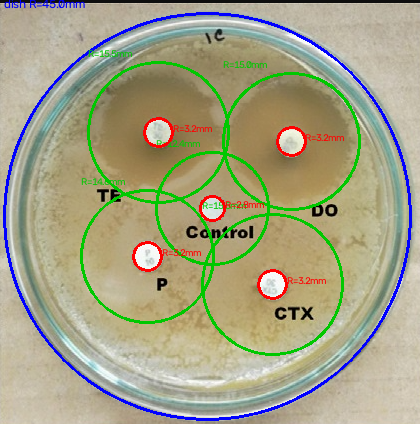
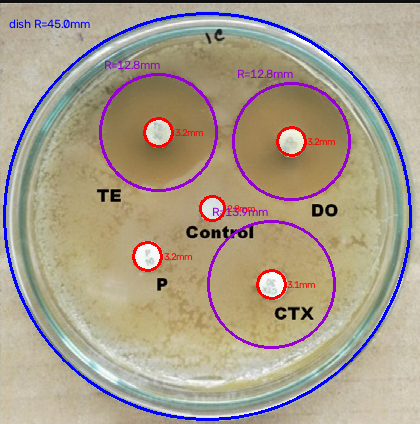
s4 image comflict

diff --git a/vision/petri_detect.py b/vision/petri_detect.py
@@ -1,7 +1,11 @@
 """Detect a petri dish, antibiotic disks, and their zones of inhibition in a single image.
 
 Usage: python3 petri_detect.py [path/to/image.png]
-Defaults to sample/image.png. Writes <name>_detected.png next to the input.
+Defaults to sample/s1.png. Writes <name>_detected.png next to the input.
+
+Colors: dish = blue, antibiotic disk = red, zone of inhibition = purple.
+A disk with no measurable zone (resistant organism, or a blank control disk)
+gets no purple circle at all -- that is a real result, not a failure.
 """
 import sys
 import os
@@ -11,6 +15,27 @@ import numpy as np
 
 DISH_DIAMETER_MM = 90.0
 
+# Physical priors for a Kirby-Bauer plate. Anchoring to mm (via the known 90mm
+# dish) instead of pixel fractions is what keeps false positives down.
+DISK_MIN_R_MM = 1.6          # standard disk is 6mm dia; allow for perspective
+DISK_MAX_R_MM = 4.5
+DISK_MIN_BRIGHTNESS = 150    # disks are white paper
+DISK_MAX_STDDEV = 45         # ...and flat/uniform, unlike textured agar
+DISK_MIN_LOCAL_CONTRAST = 12 # ...and clearly brighter than the agar around them
+
+ZONE_MAX_R_MM = 20.0         # a 40mm-dia zone is about the largest ever reported
+ZONE_MIN_R_MM = 4.0          # smaller than this is indistinguishable from the disk
+ZONE_SEARCH_FROM_DISK = 2.0  # start searching this many disk-radii out, past its halo
+# The two knobs that trade false positives against missed zones. Loosening
+# them much further starts re-admitting blank control disks, which score up to
+# ~0.56 agreement on these plates; tighten them if you see spurious circles.
+ZONE_MIN_SLOPE = 0.5         # gray levels per px: a boundary must be a real step
+ZONE_MIN_AGREEMENT = 0.60    # fraction of angular sectors that must see that step
+ZONE_SECTORS = 16
+MIN_RING_COVERAGE = 0.30     # fraction of a ring that must lie inside the dish
+
+BLUE, RED, PURPLE = (255, 0, 0), (0, 0, 255), (211, 0, 148)
+
 
 def load_image(path):
     img = cv2.imread(path)
@@ -19,144 +44,223 @@ def load_image(path):
     return img
 
 
-def _hough(gray, w, min_frac, max_frac, param1, param2, dp=1.0):
+def detect_dish(gray, w):
+    blurred = cv2.GaussianBlur(gray, (9, 9), 2)
     circles = cv2.HoughCircles(
-        gray, cv2.HOUGH_GRADIENT, dp=dp, minDist=w * 0.05,
-        param1=param1, param2=param2,
-        minRadius=int(w * min_frac), maxRadius=int(w * max_frac),
+        blurred, cv2.HOUGH_GRADIENT, dp=1.0, minDist=w * 0.05,
+        param1=80, param2=40,
+        minRadius=int(w * 0.35), maxRadius=int(w * 0.50),
+    )
+    if circles is None:
+        return None
+    return max((tuple(c) for c in circles[0]), key=lambda c: c[2])  # rim = biggest
+
+
+def _ring_stats(gray, mask, x, y, r_inner, r_outer):
+    """mean, stddev and pixel count of the annulus [r_inner, r_outer)."""
+    ring = np.zeros(gray.shape, dtype=np.uint8)
+    cv2.circle(ring, (int(x), int(y)), int(r_outer), 255, -1)
+    cv2.circle(ring, (int(x), int(y)), int(r_inner), 0, -1)
+    sel = (ring == 255) & mask
+    vals = gray[sel]
+    if vals.size == 0:
+        return 0.0, 0.0, 0
+    return float(vals.mean()), float(vals.std()), int(vals.size)
+
+
+def detect_disks(gray, dish, mm_per_px):
+    """Small, bright, uniform circles that are clearly brighter than the agar
+    surrounding them -- the local-contrast test is what rejects gloves, labels
+    and dish-rim glare, which are bright but sit on bright backgrounds."""
+    dx, dy, dr = dish
+    inside = np.zeros(gray.shape, dtype=np.uint8)
+    cv2.circle(inside, (int(dx), int(dy)), int(dr), 255, -1)
+    inside = inside == 255
+
+    blurred = cv2.GaussianBlur(gray, (5, 5), 1)
+    circles = cv2.HoughCircles(
+        blurred, cv2.HOUGH_GRADIENT, dp=1.0, minDist=DISK_MIN_R_MM / mm_per_px * 2,
+        param1=60, param2=25,
+        minRadius=int(DISK_MIN_R_MM / mm_per_px),
+        maxRadius=int(DISK_MAX_R_MM / mm_per_px),
     )
     if circles is None:
         return []
-    return [tuple(c) for c in circles[0]]
 
-
-def detect_dish(gray, w):
-    blurred = cv2.GaussianBlur(gray, (9, 9), 2)
-    candidates = _hough(blurred, w, 0.35, 0.50, param1=80, param2=40)
-    if not candidates:
-        return None
-    # biggest radius = the dish rim
-    return max(candidates, key=lambda c: c[2])
-
-
-def detect_disks(gray, w, dish):
-    blurred = cv2.GaussianBlur(gray, (5, 5), 1)
-    candidates = _hough(blurred, w, 0.02, 0.06, param1=60, param2=25)
-    dx, dy, dr = dish
     disks = []
-    for x, y, r in candidates:
-        if math.hypot(x - dx, y - dy) >= dr - r:
+    for x, y, r in (tuple(c) for c in circles[0]):
+        # must sit well inside the dish, not on the rim where glare lives
+        if math.hypot(x - dx, y - dy) > dr * 0.88:
             continue
-        mask = np.zeros(gray.shape, dtype=np.uint8)
-        cv2.circle(mask, (int(x), int(y)), max(int(r * 0.7), 1), 255, -1)
-        region = gray[mask == 255]
-        if region.mean() < 160 or region.std() > 45:  # disks are uniform near-white paper
+        core_mean, core_std, _ = _ring_stats(gray, inside, x, y, 0, r * 0.7)
+        if core_mean < DISK_MIN_BRIGHTNESS or core_std > DISK_MAX_STDDEV:
             continue
-        # non-max suppression: skip if too close to an already-accepted disk
-        if any(math.hypot(x - ax, y - ay) < 1.3 * max(r, ar) for ax, ay, ar in disks):
+        surround_mean, _, n = _ring_stats(gray, inside, x, y, r * 1.6, r * 2.6)
+        if n == 0 or core_mean - surround_mean < DISK_MIN_LOCAL_CONTRAST:
+            continue
+        if any(math.hypot(x - ax, y - ay) < 1.5 * max(r, ar) for ax, ay, ar in disks):
             continue
         disks.append((x, y, r))
     return disks
 
 
-MIN_ZONE_EDGE_STRENGTH = 2.0  # minimum tonal-transition sharpness to count as a real zone boundary
+def _radial_profile(gray, valid, x, y, max_r):
+    """Per-radius mean intensity and the fraction of each ring that was sampled.
+
+    Only pixels in `valid` are sampled, so a disk near the dish wall is measured
+    over the arc that still lies on agar instead of being dragged outward by the
+    rim -- its zone is then estimated from the part that is actually visible,
+    and the coverage fraction records how much of the ring that was.
+    """
+    h, w = gray.shape
+    yy, xx = np.ogrid[:h, :w]
+    rbin = np.sqrt((xx - x) ** 2 + (yy - y) ** 2).astype(np.int32)
+
+    n = max_r + 1
+    in_range = rbin <= max_r
+    sel = valid & in_range
+    idx = rbin[sel]
+    counts = np.bincount(idx, minlength=n).astype(np.float64)
+    total = np.bincount(rbin[in_range], minlength=n).astype(np.float64)
+    with np.errstate(invalid="ignore", divide="ignore"):
+        mean = np.bincount(idx, weights=gray[sel].astype(np.float64), minlength=n) / counts
+        coverage = counts / np.maximum(total, 1)
+    return np.nan_to_num(mean), coverage
 
 
-def find_zone_radius(gray, x, y, r_disk, max_r):
-    """Radial intensity profile around a disk center; the zone boundary is the
-    radius with the sharpest tonal transition (largest local derivative).
-    Returns None if there's no transition sharp enough to trust (e.g. the
-    bacteria grew right up to the disk with no inhibition, or the disk is too
-    close to the dish edge to leave any room to search)."""
-    lo = int(r_disk * 1.3)
-    if max_r - lo < 10:
+def _sector_agreement(gray, valid, x, y, r, k=5):
+    """Fraction of angular sectors that see the same brightness step at radius r.
+
+    This is the test that separates a real zone boundary from an artifact. A
+    zone is a *circle*, so nearly every sector around the disk must show the
+    same clear-agar-to-lawn step. A printed label on the plate or the camera's
+    lighting gradient also produces a step in the radial average, but only on
+    one side, so it scores low and gets thrown out.
+    """
+    h, w = gray.shape
+    yy, xx = np.ogrid[:h, :w]
+    dy, dx = yy - y, xx - x
+    dist = np.sqrt(dx * dx + dy * dy)
+    sector = (((np.arctan2(dy, dx) + np.pi) / (2 * np.pi)) * ZONE_SECTORS).astype(np.int32)
+    sector %= ZONE_SECTORS
+    g = gray.astype(np.float64)
+
+    def sector_means(r_from, r_to):
+        m = valid & (dist >= r_from) & (dist < r_to)
+        counts = np.bincount(sector[m], minlength=ZONE_SECTORS).astype(np.float64)
+        sums = np.bincount(sector[m], weights=g[m], minlength=ZONE_SECTORS)
+        with np.errstate(invalid="ignore", divide="ignore"):
+            return sums / counts, counts
+
+    inner, n_in = sector_means(r - k, r)
+    outer, n_out = sector_means(r, r + k)
+    ok = (n_in >= 6) & (n_out >= 6)
+    if ok.sum() < 4:
+        return 0.0
+    return float(((outer - inner)[ok] > 1.5).mean())
+
+
+def find_zone(gray, valid, x, y, r_disk, mm_per_px):
+    """Locate this disk's zone boundary, or return None if it has no zone.
+
+    Candidates are local maxima of the outward-brightening radial gradient --
+    cleared agar is darker than the bacterial lawn beyond it. Each candidate
+    must be both a real step (ZONE_MIN_SLOPE) and actually circular
+    (ZONE_MIN_AGREEMENT); the innermost survivor wins, since Kirby-Bauer
+    measures the zone of complete inhibition rather than any outer halo.
+    Returns None when nothing qualifies -- a resistant organism or a blank
+    control disk genuinely has no zone.
+    """
+    lo = max(int(r_disk * ZONE_SEARCH_FROM_DISK), int(ZONE_MIN_R_MM / mm_per_px))
+    hi = int(ZONE_MAX_R_MM / mm_per_px)
+    if hi - lo < 6:
         return None
-    radii = list(range(lo, int(max_r), 2))
-    means = []
-    for r in radii:
-        mask = np.zeros(gray.shape, dtype=np.uint8)
-        cv2.circle(mask, (int(x), int(y)), r, 255, 2)
-        vals = gray[mask == 255]
-        means.append(float(vals.mean()) if vals.size else 0.0)
-    means = np.array(means, dtype=np.float32)
-    smoothed = np.convolve(means, np.ones(5) / 5, mode="same")
-    deriv = np.abs(np.diff(smoothed))
-    if deriv.size == 0 or deriv.max() < MIN_ZONE_EDGE_STRENGTH:
-        return None
-    return radii[int(np.argmax(deriv))]
+
+    mean, coverage = _radial_profile(gray, valid, x, y, hi)
+    usable = coverage >= MIN_RING_COVERAGE
+    smoothed = cv2.GaussianBlur(mean.astype(np.float32).reshape(-1, 1), (0, 0), 3).ravel()
+    slope = np.gradient(smoothed)
+
+    for r in range(lo, min(hi, len(slope) - 1)):
+        if not usable[r] or slope[r] < ZONE_MIN_SLOPE:
+            continue
+        if not (slope[r] >= slope[r - 1] and slope[r] >= slope[r + 1]):
+            continue  # must be a local maximum, not the tail of the disk's halo
+        if _sector_agreement(gray, valid, x, y, r) < ZONE_MIN_AGREEMENT:
+            continue
+        return r, bool(coverage[r] < 0.95)
+    return None
 
 
-def detect_zones(gray, w, dish, disks):
-    """One zone per disk, or none if no confident boundary was found (see
-    MIN_ZONE_EDGE_STRENGTH) -- not every disk shows a visible zone."""
+def detect_zones(gray, dish, disks, mm_per_px):
+    """At most one zone per disk; disks with no measurable zone are skipped."""
     dx, dy, dr = dish
     zones = []
     for x, y, r in disks:
-        room_left_in_dish = dr - math.hypot(x - dx, y - dy)
-        # zones of inhibition are a few disk-widths across; capping the search
-        # range keeps the derivative peak from latching onto the dish rim or a
-        # neighboring disk's halo instead of this disk's own boundary
-        desired_max_r = r * 5
-        max_r = min(room_left_in_dish, desired_max_r)
-        zr = find_zone_radius(gray, x, y, r, max_r)
-        if zr is None:
-            continue
-        # a disk near the dish wall has its search window cut short by the
-        # wall itself, not by finding a real edge -- the radius is then a
-        # lower bound, not the true (occluded) zone size
-        clipped = room_left_in_dish < desired_max_r and zr >= max_r - 2
-        zones.append((x, y, zr, clipped))
+        valid = np.zeros(gray.shape, dtype=np.uint8)
+        cv2.circle(valid, (int(dx), int(dy)), int(dr * 0.97), 255, -1)
+        # blank out the other disks so their bright paper cannot be mistaken
+        # for this disk's zone boundary
+        for ox, oy, orad in disks:
+            if (ox, oy) != (x, y):
+                cv2.circle(valid, (int(ox), int(oy)), int(orad * 1.6), 0, -1)
+        found = find_zone(gray, valid == 255, x, y, r, mm_per_px)
+        if found is not None:
+            zr, clipped = found
+            zones.append((x, y, zr, clipped))
     return zones
 
 
 def annotate(img, dish, zones, disks, mm_per_px):
     out = img.copy()
     dx, dy, dr = dish
-    cv2.circle(out, (int(dx), int(dy)), int(dr), (255, 0, 0), 2)  # blue
-    cv2.putText(out, f"dish R={dr * mm_per_px:.1f}mm", (int(dx - dr), int(dy - dr) - 5),
-                cv2.FONT_HERSHEY_SIMPLEX, 0.4, (255, 0, 0), 1, cv2.LINE_AA)
+    cv2.circle(out, (int(dx), int(dy)), int(dr), BLUE, 2)
+    cv2.putText(out, f"dish R={dr * mm_per_px:.1f}mm", (int(dx - dr) + 5, int(dy - dr) + 15),
+                cv2.FONT_HERSHEY_SIMPLEX, 0.4, BLUE, 1, cv2.LINE_AA)
 
     for x, y, r, clipped in zones:
-        color = (211, 0, 148)  # purple
-        cv2.circle(out, (int(x), int(y)), int(r), color, 2)
+        cv2.circle(out, (int(x), int(y)), int(r), PURPLE, 2)
         label = f"R>={r * mm_per_px:.1f}mm*" if clipped else f"R={r * mm_per_px:.1f}mm"
-        cv2.putText(out, label, (int(x - r), int(y - r) - 5),
-                    cv2.FONT_HERSHEY_SIMPLEX, 0.35, color, 1, cv2.LINE_AA)
+        cv2.putText(out, label, (int(x - r) + 4, int(y - r) - 5),
+                    cv2.FONT_HERSHEY_SIMPLEX, 0.4, PURPLE, 1, cv2.LINE_AA)
 
     for x, y, r in disks:
-        cv2.circle(out, (int(x), int(y)), int(r), (0, 0, 255), 2)  # red
-        cv2.putText(out, f"R={r * mm_per_px:.1f}mm", (int(x + r), int(y)),
-                    cv2.FONT_HERSHEY_SIMPLEX, 0.35, (0, 0, 255), 1, cv2.LINE_AA)
+        cv2.circle(out, (int(x), int(y)), int(r), RED, 2)
+        cv2.putText(out, f"{r * mm_per_px:.1f}mm", (int(x + r) + 2, int(y) + 4),
+                    cv2.FONT_HERSHEY_SIMPLEX, 0.35, RED, 1, cv2.LINE_AA)
     return out
 
 
 def process(path):
     img = load_image(path)
     gray = cv2.cvtColor(img, cv2.COLOR_BGR2GRAY)
-    w = img.shape[1]
 
-    dish = detect_dish(gray, w)
+    dish = detect_dish(gray, img.shape[1])
     assert dish is not None and dish[2] > 0, "failed to detect petri dish outline"
 
     mm_per_px = DISH_DIAMETER_MM / (2 * dish[2])
-    disks = detect_disks(gray, w, dish)
-    zones = detect_zones(gray, w, dish, disks)
+    disks = detect_disks(gray, dish, mm_per_px)
+    zones = detect_zones(gray, dish, disks, mm_per_px)
+    zone_at = {(x, y): (r, clipped) for x, y, r, clipped in zones}
 
-    print(f"dish: r={dish[2]:.1f}px -> R={dish[2] * mm_per_px:.1f}mm")
+    print(f"dish: R={dish[2] * mm_per_px:.1f}mm  ({mm_per_px:.4f} mm/px)")
     for x, y, r in disks:
-        print(f"disk at ({x:.0f},{y:.0f}): r={r:.1f}px -> R={r * mm_per_px:.1f}mm")
-    for x, y, r, clipped in zones:
-        note = " (clipped by dish edge, lower bound)" if clipped else ""
-        print(f"zone at ({x:.0f},{y:.0f}): r={r:.1f}px -> R={r * mm_per_px:.1f}mm{note}")
-    no_zone = len(disks) - len(zones)
-    if no_zone:
-        print(f"{no_zone} disk(s) had no detectable zone of inhibition")
+        zone = zone_at.get((x, y))
+        if zone is None:
+            desc = "no zone of inhibition"
+        else:
+            zr, clipped = zone
+            desc = f"zone R={zr * mm_per_px:.1f}mm"
+            if clipped:
+                desc += " (clipped by dish edge -- lower bound)"
+        print(f"disk at ({x:.0f},{y:.0f}) R={r * mm_per_px:.1f}mm -> {desc}")
+    print(f"{len(disks)} disk(s), {len(zones)} with a measurable zone")
 
     return annotate(img, dish, zones, disks, mm_per_px)
 
 
 def main():
-    default = os.path.join(os.path.dirname(__file__), "sample", "image.png")
+    default = os.path.join(os.path.dirname(__file__), "sample", "s1.png")
     path = sys.argv[1] if len(sys.argv) > 1 else default
     result = process(path)
     root, ext = os.path.splitext(path)
